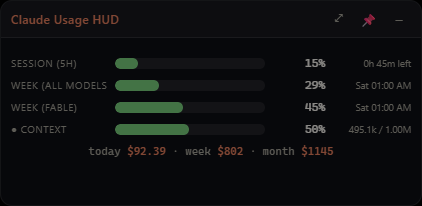
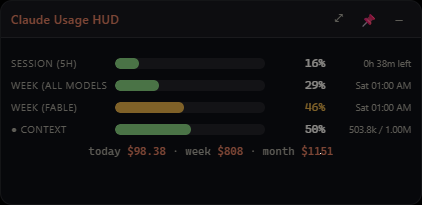
Pace-based bar colors: warn when on track to exhaust a limit before reset
Red = projected to hit 100% before the window resets (shows the projected
run-out time), amber = on pace to land above 80%, green = clear. Projection
skips the first 10% of a window to avoid noisy early estimates.

diff --git a/renderer/app.js b/renderer/app.js
@@ -244,14 +244,52 @@ function untilReset(ts) {
   return `${h}h ${m}m left`;
 }
 
-function cbar(name, pct, val, sub) {
-  const cls = pct >= 80 ? 'hot' : pct >= 60 ? 'warn' : '';
-  return `<div class="cbar-row">
+function cbar(name, pct, val, sub, cls, tip) {
+  if (cls === undefined) cls = pct >= 80 ? 'hot' : pct >= 60 ? 'warn' : '';
+  return `<div class="cbar-row" title="${esc(tip || '')}">
     <span class="cname">${esc(name)}</span>
     <span class="cbar"><i class="${cls}" style="width:${Math.min(100, pct).toFixed(1)}%"></i></span>
-    <span class="cval">${esc(val)}</span>
+    <span class="cval ${cls}">${esc(val)}</span>
     <span class="csub">${esc(sub || '')}</span>
   </div>`;
+}
+
+// Pace projection: given % used and the reset time, are you on track to hit
+// 100% before the window resets?
+function paceInfo(w) {
+  const windowMs = w.key && w.key.startsWith('session') ? 5 * 3600000 : 7 * 24 * 3600000;
+  const now = Date.now();
+  const start = w.resetsAt ? w.resetsAt - windowMs : null;
+  const out = { cls: '', sub: untilReset(w.resetsAt), tip: '' };
+
+  if (w.severity && w.severity !== 'normal') { out.cls = 'hot'; return out; }
+  if (w.pct >= 90) { out.cls = 'hot'; out.tip = 'nearly exhausted'; return out; }
+
+  if (start && now > start && w.pct >= 3) {
+    const elapsed = now - start;
+    // Ignore the first 10% of a window — projections from a few early
+    // minutes of heavy use are meaningless.
+    if (elapsed >= windowMs * 0.1) {
+      const rate = w.pct / elapsed; // % per ms
+      const exhaustAt = now + (100 - w.pct) / rate;
+      const projectedEnd = w.pct + rate * (w.resetsAt - now);
+      if (exhaustAt < w.resetsAt) {
+        out.cls = 'hot';
+        out.sub = '⚠ out ' + hm(exhaustAt);
+        out.tip = `At the current pace you hit 100% around ${new Date(exhaustAt).toLocaleString([], { weekday: 'short', hour: '2-digit', minute: '2-digit' })}, before the ${untilReset(w.resetsAt)} reset.`;
+        return out;
+      }
+      if (projectedEnd >= 80) {
+        out.cls = 'warn';
+        out.tip = `On pace to end the window around ${projectedEnd.toFixed(0)}% — tight but OK.`;
+        return out;
+      }
+      out.tip = `On pace to end the window around ${projectedEnd.toFixed(0)}%.`;
+    }
+  }
+  if (w.pct >= 80) out.cls = 'hot';
+  else if (w.pct >= 60) out.cls = 'warn';
+  return out;
 }
 
 function renderCompact() {
@@ -262,7 +300,8 @@ function renderCompact() {
   if (lim && lim.ok && lim.windows.length) {
     for (const w of lim.windows) {
       if (w.key === 'seven_day_sonnet' && w.pct === 0) continue;
-      rows.push(cbar(w.label, w.pct, w.pct.toFixed(0) + '%', untilReset(w.resetsAt)));
+      const p = paceInfo(w);
+      rows.push(cbar(w.label, w.pct, w.pct.toFixed(0) + '%', p.sub, p.cls, p.tip));
     }
   } else {
     // No fresh OAuth token: approximate the 5h window from transcripts.

diff --git a/renderer/style.css b/renderer/style.css
@@ -47,6 +47,8 @@ body {
 .cbar > i.warn { background: #d9a441; }
 .cbar > i.hot { background: #d95757; }
 .cbar-row .cval { flex: 0 0 52px; text-align: right; font-family: var(--mono); font-size: 11.5px; }
+.cval.warn { color: #d9a441; }
+.cval.hot { color: #d95757; }
 .cbar-row .csub { flex: 0 0 78px; font-size: 9.5px; color: var(--fg-dim); text-align: right; white-space: nowrap; }
 .cfoot { margin-top: 9px; font-size: 11px; color: var(--fg-dim); text-align: center; font-family: var(--mono); }
 .cfoot b { color: var(--accent); font-weight: 600; }
